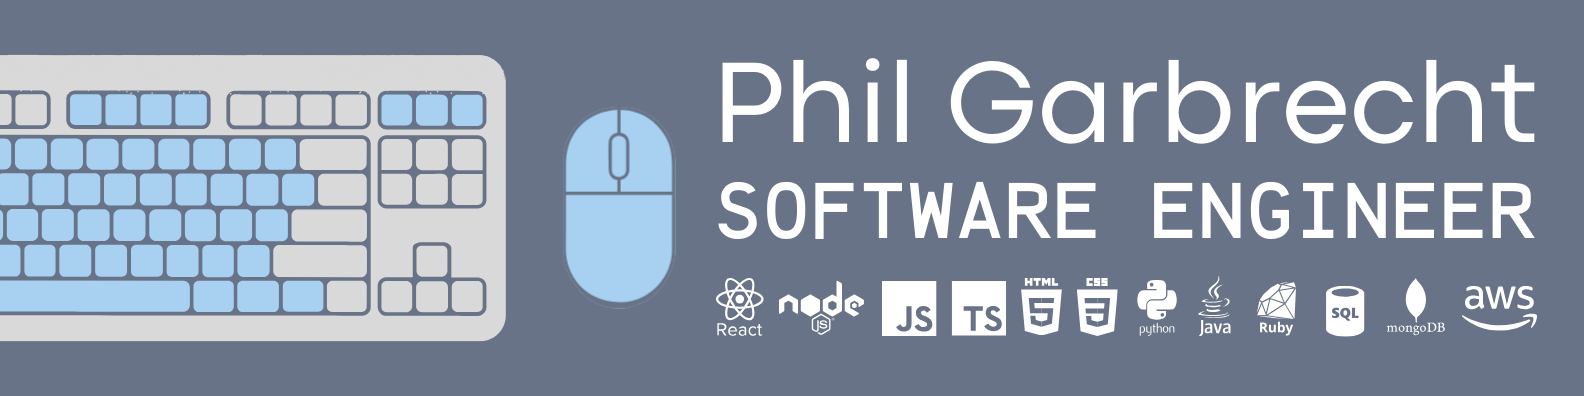
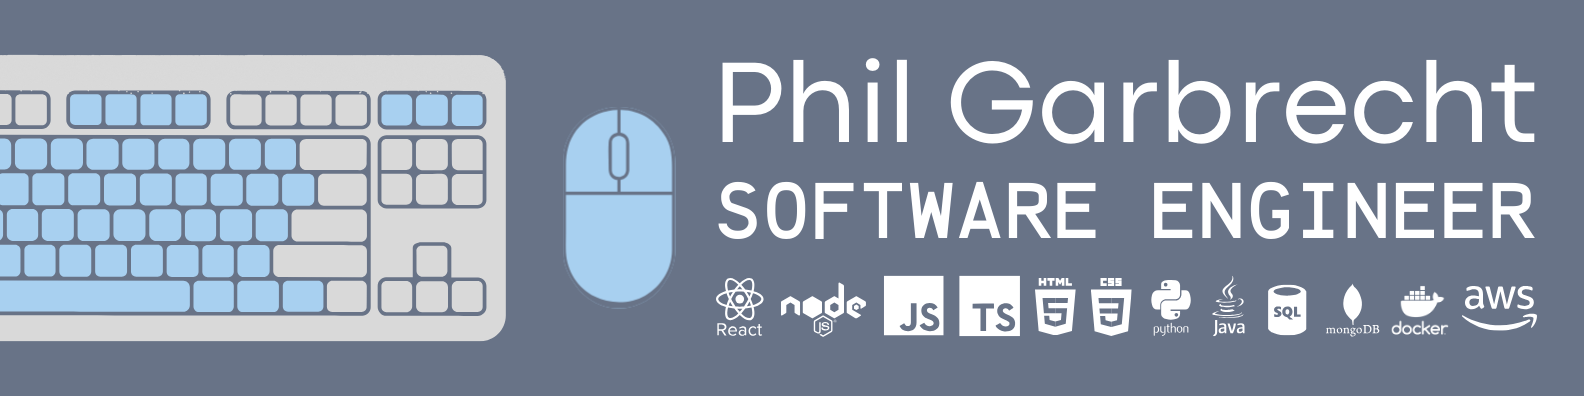
updates content

Changed region(s): [[0.4949, 0.697, 0.928, 0.8485]]

diff --git a/README.md b/README.md
@@ -13,7 +13,7 @@
   
   <h2>Skills</h2>   <!--Note: the space needs to be below this for proper formatting -->
                                                                                              
-  <img src="https://cdn.jsdelivr.net/gh/devicons/devicon/icons/react/react-original-wordmark.svg" height="60px" alt="react logo"/> <img src="https://cdn.jsdelivr.net/gh/devicons/devicon/icons/nodejs/nodejs-plain-wordmark.svg" height="60px" alt="node js logo"/> <img src="https://cdn.jsdelivr.net/gh/devicons/devicon/icons/javascript/javascript-plain.svg" height="60px" alt="javascript logo"/> <img src="https://cdn.jsdelivr.net/gh/devicons/devicon/icons/typescript/typescript-original.svg" height="60px" alt="typescript logo"/> <img src="https://cdn.jsdelivr.net/gh/devicons/devicon/icons/html5/html5-plain-wordmark.svg" height="60px" alt="html5 logo"/> <img src="https://cdn.jsdelivr.net/gh/devicons/devicon/icons/css3/css3-plain-wordmark.svg" height="60px" alt="css3 logo"/> <img src="https://cdn.jsdelivr.net/gh/devicons/devicon/icons/python/python-original-wordmark.svg" height="60px" alt="python logo"/> <img src="https://cdn.jsdelivr.net/gh/devicons/devicon@latest/icons/java/java-original-wordmark.svg" height="60px" alt="java logo"/> <img src="https://cdn.jsdelivr.net/gh/devicons/devicon@latest/icons/ruby/ruby-plain-wordmark.svg" height="60px" alt="ruby logo"/> <img src="https://cdn.jsdelivr.net/gh/devicons/devicon@latest/icons/azuresqldatabase/azuresqldatabase-original.svg" height="60px" alt="sql logo"/> <img src="https://cdn.jsdelivr.net/gh/devicons/devicon/icons/mongodb/mongodb-plain-wordmark.svg" height="60px" alt="mongodb logo"/> <img src="https://cdn.jsdelivr.net/gh/devicons/devicon/icons/amazonwebservices/amazonwebservices-original-wordmark.svg" height="60px" alt="aws logo"/>
+  <img src="https://cdn.jsdelivr.net/gh/devicons/devicon/icons/react/react-original-wordmark.svg" height="60px" alt="react logo"/> <img src="https://cdn.jsdelivr.net/gh/devicons/devicon/icons/nodejs/nodejs-plain-wordmark.svg" height="60px" alt="node js logo"/> <img src="https://cdn.jsdelivr.net/gh/devicons/devicon/icons/javascript/javascript-plain.svg" height="60px" alt="javascript logo"/> <img src="https://cdn.jsdelivr.net/gh/devicons/devicon/icons/typescript/typescript-original.svg" height="60px" alt="typescript logo"/> <img src="https://cdn.jsdelivr.net/gh/devicons/devicon/icons/html5/html5-plain-wordmark.svg" height="60px" alt="html5 logo"/> <img src="https://cdn.jsdelivr.net/gh/devicons/devicon/icons/css3/css3-plain-wordmark.svg" height="60px" alt="css3 logo"/> <img src="https://cdn.jsdelivr.net/gh/devicons/devicon/icons/python/python-original-wordmark.svg" height="60px" alt="python logo"/> <img src="https://cdn.jsdelivr.net/gh/devicons/devicon@latest/icons/java/java-original-wordmark.svg" height="60px" alt="java logo"/> <img src="https://cdn.jsdelivr.net/gh/devicons/devicon@latest/icons/azuresqldatabase/azuresqldatabase-original.svg" height="60px" alt="sql logo"/> <img src="https://cdn.jsdelivr.net/gh/devicons/devicon/icons/mongodb/mongodb-plain-wordmark.svg" height="60px" alt="mongodb logo"/> <img src="https://cdn.jsdelivr.net/gh/devicons/devicon@latest/icons/docker/docker-plain-wordmark.svg" height="60px" alt="docker logo"/> <img src="https://cdn.jsdelivr.net/gh/devicons/devicon/icons/amazonwebservices/amazonwebservices-original-wordmark.svg" height="60px" alt="aws logo"/>
   
   <h2>Connect</h2> 
   <a href = "https://www.linkedin.com/in/philgarbrecht/">🔗 Add me on LinkedIn</a> | <a href = "mailto: philgarbrecht@gmail.com">📫 Email me</a>                                                                                                                             
